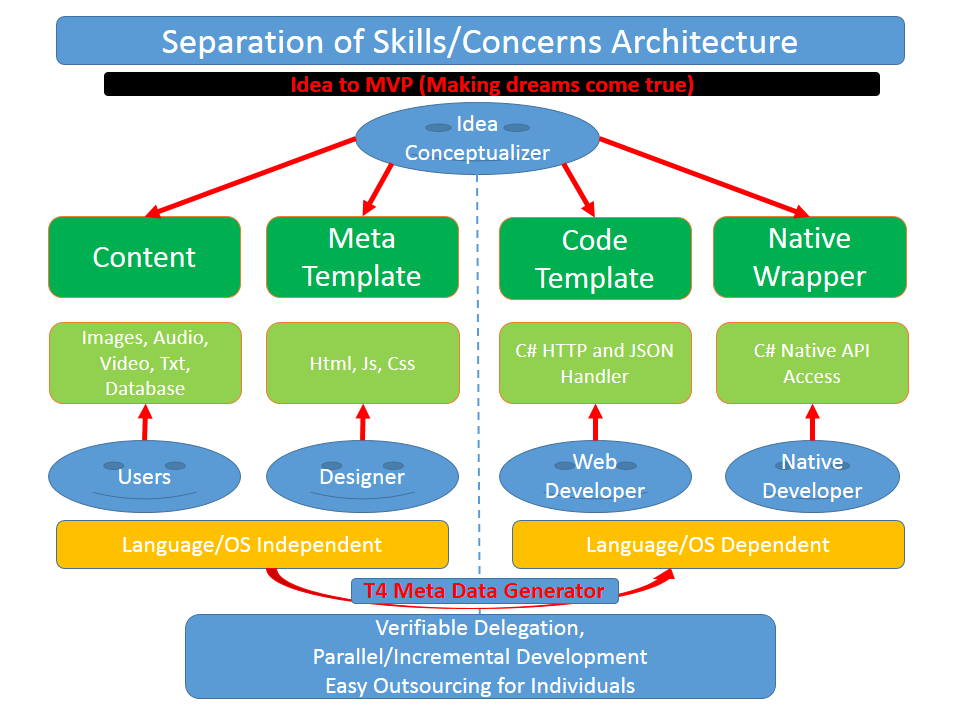
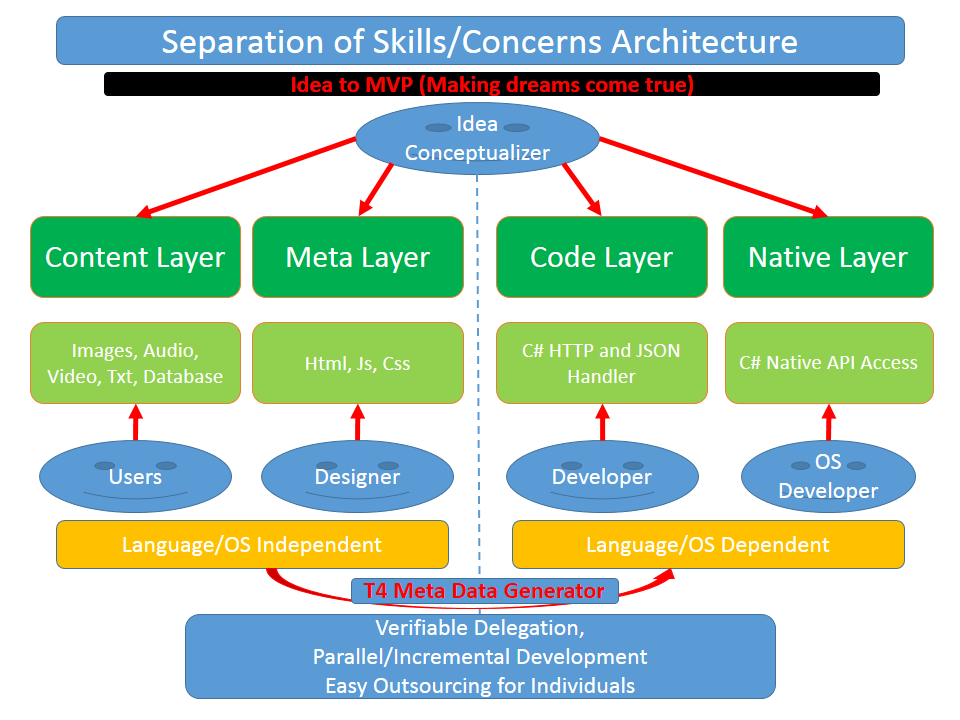
Document Correction

diff --git a/Document/Architecture.html b/Document/Architecture.html
@@ -26,13 +26,24 @@
             </li>
         </ul>
     </div>
-    <div data-role="collapsible" data-collapsed="false">
+    <div data-role="collapsible" data-collapsed="true">
         <h3>Idea Architecture Vision</h3>
         <ul data-role="listview" data-inset="true" data-theme="a" data-content-theme="b"
             data-dividertheme="e" data-filter="false">
             <li style="text-align: center">
                 <div>
                     <img src="/Pages/Footer/Architecture1.png" alt="Architecture1">
+                </div>
+            </li>
+        </ul>
+    </div>
+    <div data-role="collapsible" data-collapsed="false">
+        <h3>Platform/Language/GUI Agnostic Vision</h3>
+        <ul data-role="listview" data-inset="true" data-theme="a" data-content-theme="b"
+            data-dividertheme="e" data-filter="false">
+            <li style="text-align: center">
+                <div>
+                    <img src="/Pages/Footer/Architecture3.png" alt="Architecture3">
                 </div>
             </li>
         </ul>

diff --git a/Document/License.html b/Document/License.html
@@ -121,7 +121,7 @@
                         </li>
                         <li><span><a href="http://www.codeproject.com/KB/recipes/ZipStorer.aspx">http://www.codeproject.com/KB/recipes/ZipStorer.aspx</a></span>
                             Version: 2.35 (March 14, 2010)
-                    <img alt="Powered By ZipStored" src="/Pages/PoweredByZipStorer.png" />
+                    <img alt="Powered By ZipStored" src="/Pages/Footer/PoweredByZipStorer.png" />
                         </li>
                     </ul>
                 </div>
